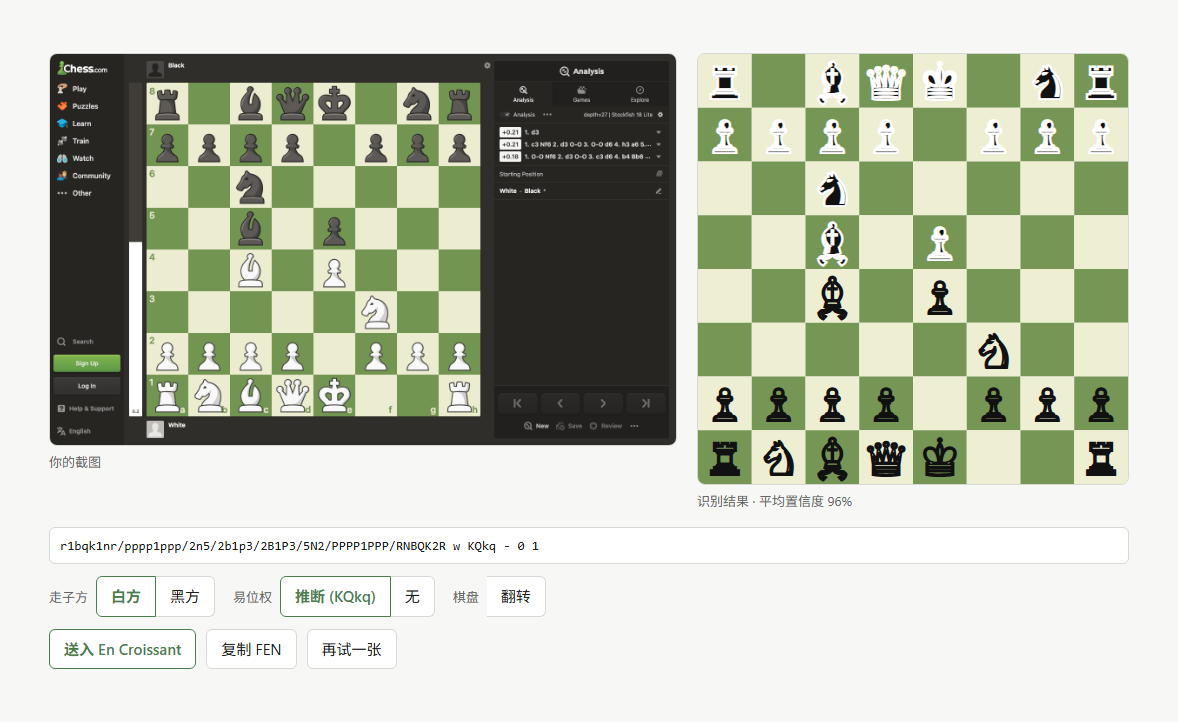
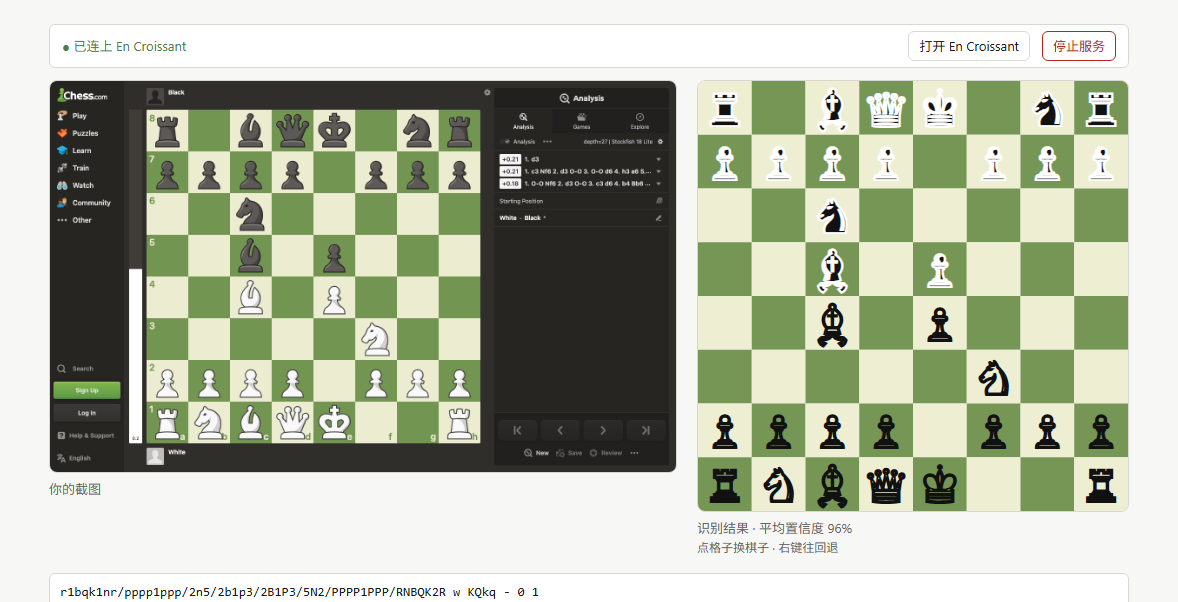
feat: hand-editable board, in-page stop button and POST /shutdown

diff --git a/src/main.js b/src/main.js
@@ -2,6 +2,7 @@ import { createRecognizer, resolveOrientation } from "@scoriiu/fenshot";
 import { renderBoardSvg } from "./board.mjs";
 import { pickImageFile } from "./paste.mjs";
 import { composeFen, flipPlacement, isPlausible } from "./fen.mjs";
+import { cycleSquare } from "./edit.mjs";
 import { evaluatePosition } from "./guards.mjs";
 import { judgeFixture } from "./fixtures.mjs";
 import { releaseResultUrl } from "./urls.mjs";
@@ -38,6 +39,19 @@ async function refreshHealth() {
   } catch (err) {
     health = { configured: false, reason: `连不上本地服务：${err.message}` };
   }
+  render();
+}
+
+async function shutdown() {
+  if (!window.confirm("停止本地服务？停止后这个页面就不能再识别了，要用就重新运行 start.bat。")) return;
+  try {
+    await fetch("/shutdown", { method: "POST" });
+  } catch {
+    /* 进程已经没了也算停成功 */
+  }
+  state = { kind: "idle" };
+  notice = null;
+  health = { configured: false, reason: "服务已停止。重新运行 start.bat 就能再用。" };
   render();
 }
 
@@ -80,6 +94,7 @@ export async function scanImage(blob) {
       turn: "w",
       castling: "inferred",
       flipped: false,
+      edited: false,
     };
   } catch (err) {
     state = { kind: "noboard", message: `识别出错：${err.message}` };
@@ -170,15 +185,18 @@ function toggleButton(label, active, action) {
 /** Status strip: whether the handoff is wired, why not when it isn't, and the
  *  two things a user can do about it without leaving the page. */
 function statusStrip() {
+  const stop = `<button type="button" class="danger" data-action="shutdown">停止服务</button>`;
   if (health.configured) {
     return `<div class="service-status ok">
       <span>● 已连上 En Croissant</span>
       <button type="button" data-action="open-app">打开 En Croissant</button>
+      ${stop}
     </div>`;
   }
   return `<div class="service-status bad">
     <span>● 未连上 En Croissant —— ${escapeHtml(health.reason ?? "")}</span>
     <button type="button" data-action="refresh-health">重新检测</button>
+    ${stop}
   </div>`;
 }
 
@@ -205,7 +223,7 @@ function renderIdleOrScanning() {
     if (file) void scanImage(file);
     event.target.value = "";
   });
-  bind({ "refresh-health": refreshHealth, "open-app": openEnCroissant });
+  bind({ "refresh-health": refreshHealth, "open-app": openEnCroissant, shutdown });
 }
 
 function renderNoBoard() {
@@ -243,7 +261,10 @@ function renderResult() {
       </figure>
       <figure class="board-figure">
         ${renderBoardSvg(effectivePlacement, false)}
-        <figcaption>识别结果 · 平均置信度 ${confidence}%</figcaption>
+        <figcaption>
+          识别结果 · 平均置信度 ${confidence}%${state.edited ? " · 已手动修正" : ""}
+          <br /><span class="edit-hint">点格子换棋子 · 右键往回退</span>
+        </figcaption>
       </figure>
     </section>
 
@@ -291,18 +312,46 @@ function renderResult() {
       }
     </section>`;
 
+  bindBoardEditing();
+
   bind({
     reset,
     copy: copyFen,
     send: sendToEnCroissant,
     "refresh-health": refreshHealth,
     "open-app": openEnCroissant,
+    shutdown,
     "turn-w": () => setOption({ turn: "w" }),
     "turn-b": () => setOption({ turn: "b" }),
     "castle-inferred": () => setOption({ castling: "inferred" }),
     "castle-none": () => setOption({ castling: "none" }),
     flip: () => setOption({ flipped: !state.flipped }),
   });
+}
+
+/** Clicking a square steps its piece forward, right-clicking steps back. The
+ *  board is re-rendered from state each time, so editing and the FEN can never
+ *  disagree. */
+function editSquare(screenIndex, direction) {
+  // The board is drawn from the effective (possibly flipped) placement and
+  // numbered in that same orientation, so map back before touching state.
+  const placementIndex = state.flipped ? 63 - screenIndex : screenIndex;
+  const next = cycleSquare(state.placement, placementIndex, direction);
+  if (next === state.placement) return;
+  notice = null;
+  state = { ...state, placement: next, edited: true };
+  render();
+}
+
+function bindBoardEditing() {
+  for (const square of app.querySelectorAll("[data-square]")) {
+    const index = Number(square.dataset.square);
+    square.addEventListener("click", () => editSquare(index, 1));
+    square.addEventListener("contextmenu", (event) => {
+      event.preventDefault();
+      editSquare(index, -1);
+    });
+  }
 }
 
 function setOption(patch) {

diff --git a/src/style.css b/src/style.css
@@ -315,3 +315,26 @@ table.fixtures tr.pass td:nth-child(3) {
   padding: 4px 10px;
   font-size: 13px;
 }
+
+.board .sq {
+  cursor: pointer;
+}
+
+.board .sq:hover {
+  fill: var(--accent);
+  fill-opacity: 0.35;
+}
+
+.edit-hint {
+  color: var(--muted);
+  font-size: 12px;
+}
+
+.service-status button.danger {
+  color: #b3261e;
+  border-color: #b3261e;
+}
+
+.service-status button + button {
+  margin-left: 0;
+}
